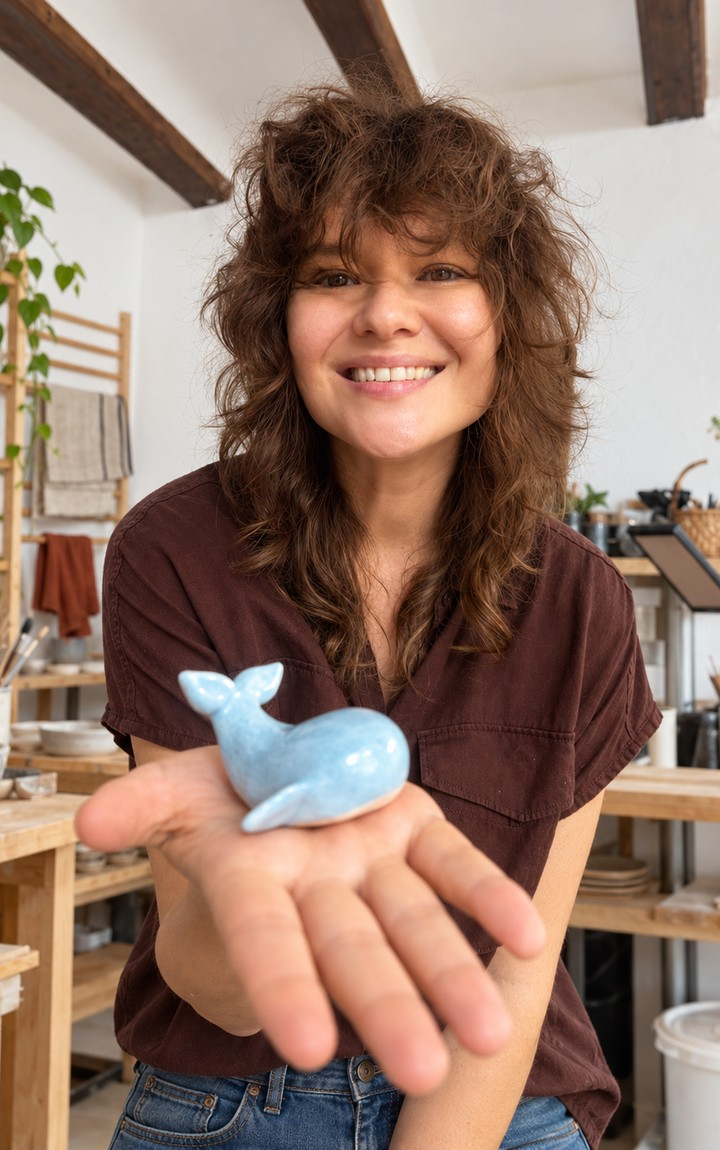
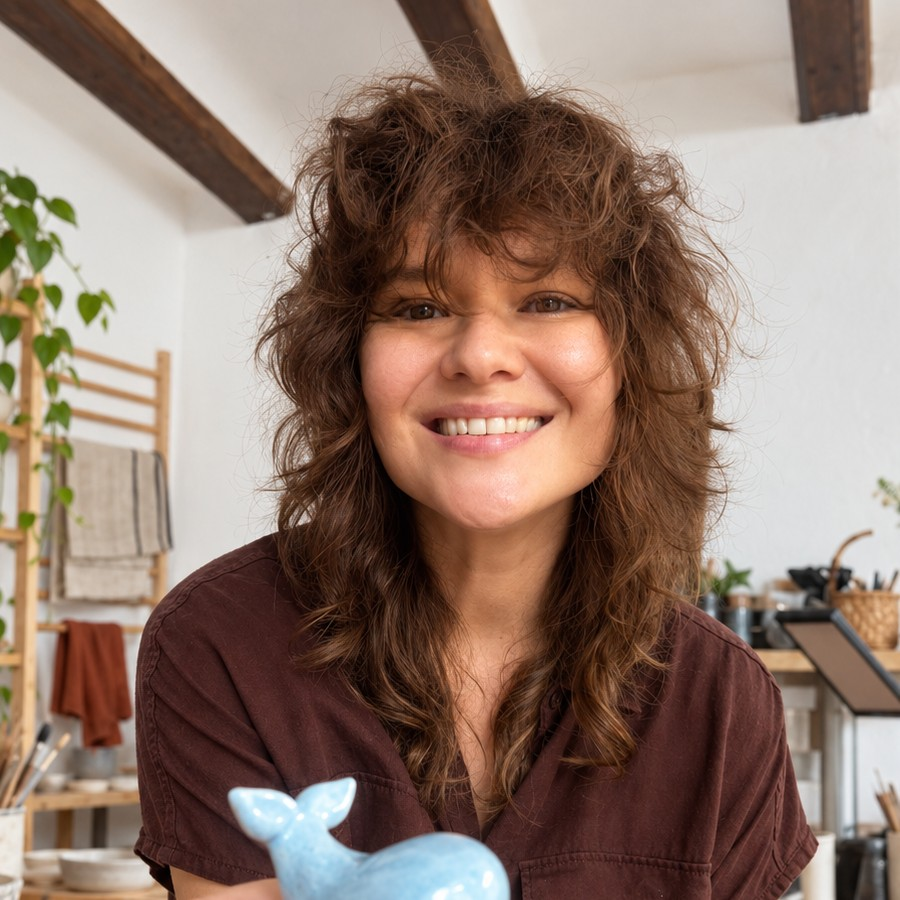
Update Vita photo to studio portrait (900×900, matches Korytsia) and add kids to bio
- vita-portrait.jpg: re-cropped from source to 900×900 to match hero-1.jpg (Korytsia)
  both images now identical format for consistent card rendering via object-fit:cover
- EN/RU/UK/ES bios: "adults" → "adults and kids" (Vita teaches both)

diff --git a/index.html b/index.html
@@ -264,7 +264,7 @@
       </div>
     </div></div></section>
 
-    <section id="people"><div class="wrap"><div class="makers__count"><span>50+</span> students through the studio since May 2026</div><div class="section-head"><div class="kicker">Who you’ll meet</div><h2 class="section-title">Artists who teach by making beside you.</h2></div><div class="makers"><article class="maker"><img src="assets/images/hero-1.jpg" alt="Korytsia teaching in her orange kimono at Saged.club"><div class="maker__text"><span class="maker__tag">Ceramic artist · Ukrainian / Russian</span><h3>Korytsia</h3><p>Slow, tactile hand-building with attention to the material. Korytsia leads children’s classes, family sessions and weekend workshops.</p></div></article><article class="maker"><img src="assets/images/vita-portrait.jpg" alt="Vita holding one of her colourful ceramic pieces" ><div class="maker__text"><span class="maker__tag">Ceramic instructor · English / Spanish</span><h3>Vita</h3><p>Friendly guided sessions for adults—clear enough for a first experience, open enough to make the piece your own.</p></div></article></div></div></section>
+    <section id="people"><div class="wrap"><div class="makers__count"><span>50+</span> students through the studio since May 2026</div><div class="section-head"><div class="kicker">Who you’ll meet</div><h2 class="section-title">Artists who teach by making beside you.</h2></div><div class="makers"><article class="maker"><img src="assets/images/hero-1.jpg" alt="Korytsia teaching in her orange kimono at Saged.club"><div class="maker__text"><span class="maker__tag">Ceramic artist · Ukrainian / Russian</span><h3>Korytsia</h3><p>Slow, tactile hand-building with attention to the material. Korytsia leads children’s classes, family sessions and weekend workshops.</p></div></article><article class="maker"><img src="assets/images/vita-portrait.jpg" alt="Vita holding one of her colourful ceramic pieces" ><div class="maker__text"><span class="maker__tag">Ceramic instructor · English / Spanish</span><h3>Vita</h3><p>Friendly guided sessions for adults and kids—clear enough for a first experience, open enough to make the piece your own.</p></div></article></div></div></section>
 
     <section class="section--sand"><div class="wrap"><div class="section-head"><div class="kicker">What you can make</div><h2 class="section-title">Useful, imperfect and completely yours.</h2></div><div class="made-grid"><img src="assets/images/product-1.jpg" alt="Handmade ceramic piece"><img src="assets/images/sept-2026/IMG_5036.jpg" alt="Handmade ceramic pieces and glaze test tiles"><img src="assets/images/sept-2026/IMG_3847.jpg" alt="Glazing tools and colour swatches at the studio"><img src="assets/images/gallery-beads.jpg" alt="Ceramic beads and small objects"></div></div></section>
 
@@ -274,11 +274,11 @@
   <a class="mobile-book" href="https://wa.me/34742003495?text=Hi!+I'd+like+to+book+a+class+at+Saged.club" target="_blank" rel="noopener">Book via WhatsApp ↗</a>
   <script>
     const translations={
-      ru:{title:'Saged.club — керамика и сообщество в Валенсии',nav:['Занятия','Расписание','Мастера','Адрес','Записаться ↗'],heroEyebrow:'Керамика · культура · люди · Валенсия',heroTitle:'Делать руками.<br><em>Быть вместе.</em>',heroLead:'Тёплая мастерская в старом городе Валенсии — для глины, любопытства и времени за общим столом.',book:'Написать в WhatsApp ↗',see:'Что у нас есть ↓',stamp:'Маленькие группы<br>Живые люди<br>Без спешки',ticker:['Глина в руках','Старая Валенсия','Занятия на русском','Можно с детьми'],offerKicker:'Выберите свой формат',offerTitle:'Приходите. Оставайтесь из любопытства. Сделайте своё.',offerNumbers:['01 · ВЗРОСЛЫМ','02 · 7–14 ЛЕТ','03 · ДЛЯ ВАШИХ ЛЮДЕЙ','04 · ДЛЯ МАСТЕРОВ','05 · ТУРИСТАМ'],offerNames:['Керамика<br>для взрослых','Дети делают<br>настоящие вещи','Приватные<br>события','Своё место<br>в мастерской','Расписной изразец<br>с собой'],offerCopy:['Лепите, глазуруйте и обжигайте свою работу. Можно без опыта, материалы включены.','Небольшие занятия, где дети осваивают керамический процесс и серьёзно относятся к своей работе.','Дни рождения, встречи друзей и командные занятия — под формат вашей компании.','Керамический коворкинг: глина, глазури, печь и пять спокойных рабочих мест.','Распишите традиционный изразец и узнайте историю Валенсии — керамической столицы Испании. Раз в неделю, через Booking.com или Airbnb. Доставим готовое изделие или заберите из печи сами.'],offerPrice:['от 30€','25€','Спросить нас','Спросить о месте','65€'],scheduleTitle:'Ритм<br>недели',scheduleNote:'Напишите нам до визита. В чате мы подтвердим язык, мастера и свободное место.',days:['Вторник','','Среда','Четверг','','','','Пятница','','Суббота','','','','Воскресенье','','','Понедельник'],classes:['Beginners Ceramics','Evening Ceramics','Beginners Ceramics','Сказкотерапия','Кофе с Корицей','Детская керамика','СДВГ лепка группа','Evening Ceramics','Ceramics & Wine','Сказкотерапия','Дети + родители','Детская керамика','СДВГ взрослые','Сказкотерапия','МК для пар','Воркшоп по глине','Студия: день коворкинга'],peopleKicker:'Кого вы встретите',peopleTitle:'Художницы, которые работают рядом с вами.',tags:['Художница-керамистка · украинский / русский','Преподаватель керамики · английский / испанский'],bios:['Медленная, тактильная ручная лепка с вниманием к материалу. Корица ведёт детские, семейные и выходные занятия.','Дружелюбные занятия для взрослых: достаточно понятно для первого раза и достаточно свободно, чтобы сделать вещь своей.'],madeKicker:'Что можно сделать',madeTitle:'Полезное, несовершенное и полностью ваше.',visitKicker:'Заходите познакомиться',visitTitle:'Найдите нас<br>в Валенсии.',map:'Открыть карту ↗',menu:'Меню',footer:'Керамическая и культурная мастерская · Валенсия'},
-      uk:{title:'Saged.club — кераміка та спільнота у Валенсії',nav:['Заняття','Розклад','Майстрині','Адреса','Записатися ↗'],heroEyebrow:'Кераміка · культура · люди · Валенсія',heroTitle:'Творити руками.<br><em>Бути разом.</em>',heroLead:'Тепла майстерня у старому місті Валенсії — для глини, цікавості та часу за спільним столом.',book:'Написати у WhatsApp ↗',see:'Що ми робимо ↓',stamp:'Малі групи<br>Живі люди<br>Без поспіху',ticker:['Глина в руках','Стара Валенсія','Заняття українською','Можна з дітьми'],offerKicker:'Оберіть свій формат',offerTitle:'Прийдіть. Залишайтесь із цікавості. Зробіть своє.',offerNumbers:['01 · ДОРОСЛИМ','02 · 7–14 РОКІВ','03 · ДЛЯ ВАШИХ ЛЮДЕЙ','04 · ДЛЯ МАЙСТРІВ','05 · ТУРИСТАМ'],offerNames:['Кераміка<br>для дорослих','Діти роблять<br>справжні речі','Приватні<br>події','Своє місце<br>в майстерні','Розписна плитка<br>з собою'],offerCopy:['Ліпіть, глазуруйте та випалюйте власну роботу. Можна без досвіду, матеріали включені.','Малі заняття, де діти опановують керамічний процес і серйозно ставляться до своєї роботи.','Дні народження, зустрічі друзів і командні заняття — під формат вашої компанії.','Керамічний коворкінг: глина, глазурі, піч і п’ять спокійних робочих місць.','Розпишіть традиційну плитку та дізнайтесь про Валенсію — керамічну столицю Іспанії. Раз на тиждень, через Booking.com або Airbnb. Доставимо або заберіть з печі за два дні.'],offerPrice:['від 30€','25€','Запитайте нас','Запитати про місце','65€'],scheduleTitle:'Ритм<br>тижня',scheduleNote:'Напишіть нам перед візитом. У чаті ми підтвердимо мову, майстриню та вільне місце.',days:['Вівторок','','Середа','Четвер','','','','Пʼятниця','','Субота','','','','Неділя','','','Понеділок'],classes:['Beginners Ceramics','Evening Ceramics','Beginners Ceramics','Казкотерапія','Кава з Корицею','Дитяча кераміка','СДВГ ліпка група','Evening Ceramics','Ceramics & Wine','Казкотерапія','Діти + батьки','Дитяча кераміка','СДВГ дорослі','Казкотерапія','МК для пар','Воркшоп з глини','Студія: день коворкінгу'],peopleKicker:'Кого ви зустрінете',peopleTitle:'Художниці, які працюють поруч із вами.',tags:['Художниця-керамістка · українська / російська','Викладачка кераміки · англійська / іспанська'],bios:['Повільна, тактильна ручна ліпка з увагою до матеріалу. Кориця веде дитячі, сімейні та вихідні заняття.','Дружні заняття для дорослих: зрозуміло для першого разу і достатньо вільно, щоб зробити річ своєю.'],madeKicker:'Що можна зробити',madeTitle:'Корисне, недосконале і повністю ваше.',visitKicker:'Заходьте познайомитися',visitTitle:'Знайдіть нас<br>у Валенсії.',map:'Відкрити карту ↗',menu:'Меню',footer:'Керамічна та культурна майстерня · Валенсія'},
-      es:{title:'Saged.club — cerámica y comunidad en Valencia',nav:['Clases','Horario','Personas','Visítanos','Reservar ↗'],heroEyebrow:'Cerámica · cultura · comunidad · Valencia',heroTitle:'Crear con las manos.<br><em>Conectar de verdad.</em>',heroLead:'Un estudio cálido en el casco antiguo de Valencia para trabajar con barro, sentir curiosidad y compartir tiempo alrededor de la mesa.',book:'Escribir por WhatsApp ↗',see:'Descubre el estudio ↓',stamp:'Grupos pequeños<br>Personas reales<br>Sin prisas',ticker:['Manos en el barro','Valencia antigua','Clases en español','Familias bienvenidas'],offerKicker:'Elige tu manera de entrar',offerTitle:'Ven. Quédate por curiosidad. Crea algo tuyo.',offerNumbers:['01 · ADULTOS','02 · 7–14 AÑOS','03 · TU GENTE','04 · CERAMISTAS','05 · TURISTAS'],offerNames:['Clases de<br>cerámica','Niños que hacen<br>cosas de verdad','Eventos<br>privados','Tu mesa<br>en el estudio','Pinta un azulejo<br>y llévalo contigo'],offerCopy:['Modela, esmalta y cuece tu propia pieza. No necesitas experiencia y los materiales están incluidos.','Grupos pequeños donde los niños aprenden el proceso cerámico y se toman en serio su trabajo.','Cumpleaños, encuentros con amigos y sesiones de equipo adaptadas a vuestro grupo.','Coworking cerámico con barro, esmaltes, horno y cinco mesas tranquilas para practicar.','Pinta un azulejo valenciano y descubre la historia de Valencia como capital de la cerámica en España. Una sesión por semana, vía Booking.com o Airbnb. Te lo enviamos o recógelo en dos días.'],offerPrice:['desde 30€','25€','Consúltanos','Pregunta por una plaza','65€'],scheduleTitle:'Ritmo<br>semanal',scheduleNote:'Escríbenos antes de venir. Confirmamos por chat el idioma, la profesora y la plaza disponible.',days:['Martes','','Miércoles','Jueves','','','','Viernes','','Sábado','','','','Domingo','','','Lunes'],classes:['Beginners Ceramics','Evening Ceramics','Beginners Ceramics','Terapia de cuentos','Café con Korytsia','Cerámica infantil','Grupo TDAH con arcilla','Evening Ceramics','Ceramics & Wine','Terapia de cuentos','Niños + padres','Cerámica infantil','Grupo TDAH adultos','Terapia de cuentos','Taller para parejas','Taller de arcilla','Estudio: día de coworking'],peopleKicker:'A quién conocerás',peopleTitle:'Artistas que enseñan creando a tu lado.',tags:['Artista ceramista · ucraniano / ruso','Profesora de cerámica · inglés / español'],bios:['Modelado manual lento y táctil, atento al material. Korytsia dirige clases infantiles, familiares y talleres de fin de semana.','Sesiones amables para adultos: claras para una primera experiencia y abiertas para crear una pieza propia.'],madeKicker:'Qué puedes crear',madeTitle:'Útil, imperfecto y completamente tuyo.',visitKicker:'Ven a conocernos',visitTitle:'Encuéntranos<br>en Valencia.',map:'Abrir en Maps ↗',menu:'Menú',footer:'Estudio de cerámica y cultura · Valencia'}
+      ru:{title:'Saged.club — керамика и сообщество в Валенсии',nav:['Занятия','Расписание','Мастера','Адрес','Записаться ↗'],heroEyebrow:'Керамика · культура · люди · Валенсия',heroTitle:'Делать руками.<br><em>Быть вместе.</em>',heroLead:'Тёплая мастерская в старом городе Валенсии — для глины, любопытства и времени за общим столом.',book:'Написать в WhatsApp ↗',see:'Что у нас есть ↓',stamp:'Маленькие группы<br>Живые люди<br>Без спешки',ticker:['Глина в руках','Старая Валенсия','Занятия на русском','Можно с детьми'],offerKicker:'Выберите свой формат',offerTitle:'Приходите. Оставайтесь из любопытства. Сделайте своё.',offerNumbers:['01 · ВЗРОСЛЫМ','02 · 7–14 ЛЕТ','03 · ДЛЯ ВАШИХ ЛЮДЕЙ','04 · ДЛЯ МАСТЕРОВ','05 · ТУРИСТАМ'],offerNames:['Керамика<br>для взрослых','Дети делают<br>настоящие вещи','Приватные<br>события','Своё место<br>в мастерской','Расписной изразец<br>с собой'],offerCopy:['Лепите, глазуруйте и обжигайте свою работу. Можно без опыта, материалы включены.','Небольшие занятия, где дети осваивают керамический процесс и серьёзно относятся к своей работе.','Дни рождения, встречи друзей и командные занятия — под формат вашей компании.','Керамический коворкинг: глина, глазури, печь и пять спокойных рабочих мест.','Распишите традиционный изразец и узнайте историю Валенсии — керамической столицы Испании. Раз в неделю, через Booking.com или Airbnb. Доставим готовое изделие или заберите из печи сами.'],offerPrice:['от 30€','25€','Спросить нас','Спросить о месте','65€'],scheduleTitle:'Ритм<br>недели',scheduleNote:'Напишите нам до визита. В чате мы подтвердим язык, мастера и свободное место.',days:['Вторник','','Среда','Четверг','','','','Пятница','','Суббота','','','','Воскресенье','','','Понедельник'],classes:['Beginners Ceramics','Evening Ceramics','Beginners Ceramics','Сказкотерапия','Кофе с Корицей','Детская керамика','СДВГ лепка группа','Evening Ceramics','Ceramics & Wine','Сказкотерапия','Дети + родители','Детская керамика','СДВГ взрослые','Сказкотерапия','МК для пар','Воркшоп по глине','Студия: день коворкинга'],peopleKicker:'Кого вы встретите',peopleTitle:'Художницы, которые работают рядом с вами.',tags:['Художница-керамистка · украинский / русский','Преподаватель керамики · английский / испанский'],bios:['Медленная, тактильная ручная лепка с вниманием к материалу. Корица ведёт детские, семейные и выходные занятия.','Дружелюбные занятия для взрослых и детей: достаточно понятно для первого раза и достаточно свободно, чтобы сделать вещь своей.'],madeKicker:'Что можно сделать',madeTitle:'Полезное, несовершенное и полностью ваше.',visitKicker:'Заходите познакомиться',visitTitle:'Найдите нас<br>в Валенсии.',map:'Открыть карту ↗',menu:'Меню',footer:'Керамическая и культурная мастерская · Валенсия'},
+      uk:{title:'Saged.club — кераміка та спільнота у Валенсії',nav:['Заняття','Розклад','Майстрині','Адреса','Записатися ↗'],heroEyebrow:'Кераміка · культура · люди · Валенсія',heroTitle:'Творити руками.<br><em>Бути разом.</em>',heroLead:'Тепла майстерня у старому місті Валенсії — для глини, цікавості та часу за спільним столом.',book:'Написати у WhatsApp ↗',see:'Що ми робимо ↓',stamp:'Малі групи<br>Живі люди<br>Без поспіху',ticker:['Глина в руках','Стара Валенсія','Заняття українською','Можна з дітьми'],offerKicker:'Оберіть свій формат',offerTitle:'Прийдіть. Залишайтесь із цікавості. Зробіть своє.',offerNumbers:['01 · ДОРОСЛИМ','02 · 7–14 РОКІВ','03 · ДЛЯ ВАШИХ ЛЮДЕЙ','04 · ДЛЯ МАЙСТРІВ','05 · ТУРИСТАМ'],offerNames:['Кераміка<br>для дорослих','Діти роблять<br>справжні речі','Приватні<br>події','Своє місце<br>в майстерні','Розписна плитка<br>з собою'],offerCopy:['Ліпіть, глазуруйте та випалюйте власну роботу. Можна без досвіду, матеріали включені.','Малі заняття, де діти опановують керамічний процес і серйозно ставляться до своєї роботи.','Дні народження, зустрічі друзів і командні заняття — під формат вашої компанії.','Керамічний коворкінг: глина, глазурі, піч і п’ять спокійних робочих місць.','Розпишіть традиційну плитку та дізнайтесь про Валенсію — керамічну столицю Іспанії. Раз на тиждень, через Booking.com або Airbnb. Доставимо або заберіть з печі за два дні.'],offerPrice:['від 30€','25€','Запитайте нас','Запитати про місце','65€'],scheduleTitle:'Ритм<br>тижня',scheduleNote:'Напишіть нам перед візитом. У чаті ми підтвердимо мову, майстриню та вільне місце.',days:['Вівторок','','Середа','Четвер','','','','Пʼятниця','','Субота','','','','Неділя','','','Понеділок'],classes:['Beginners Ceramics','Evening Ceramics','Beginners Ceramics','Казкотерапія','Кава з Корицею','Дитяча кераміка','СДВГ ліпка група','Evening Ceramics','Ceramics & Wine','Казкотерапія','Діти + батьки','Дитяча кераміка','СДВГ дорослі','Казкотерапія','МК для пар','Воркшоп з глини','Студія: день коворкінгу'],peopleKicker:'Кого ви зустрінете',peopleTitle:'Художниці, які працюють поруч із вами.',tags:['Художниця-керамістка · українська / російська','Викладачка кераміки · англійська / іспанська'],bios:['Повільна, тактильна ручна ліпка з увагою до матеріалу. Кориця веде дитячі, сімейні та вихідні заняття.','Дружні заняття для дорослих і дітей: зрозуміло для першого разу і достатньо вільно, щоб зробити річ своєю.'],madeKicker:'Що можна зробити',madeTitle:'Корисне, недосконале і повністю ваше.',visitKicker:'Заходьте познайомитися',visitTitle:'Знайдіть нас<br>у Валенсії.',map:'Відкрити карту ↗',menu:'Меню',footer:'Керамічна та культурна майстерня · Валенсія'},
+      es:{title:'Saged.club — cerámica y comunidad en Valencia',nav:['Clases','Horario','Personas','Visítanos','Reservar ↗'],heroEyebrow:'Cerámica · cultura · comunidad · Valencia',heroTitle:'Crear con las manos.<br><em>Conectar de verdad.</em>',heroLead:'Un estudio cálido en el casco antiguo de Valencia para trabajar con barro, sentir curiosidad y compartir tiempo alrededor de la mesa.',book:'Escribir por WhatsApp ↗',see:'Descubre el estudio ↓',stamp:'Grupos pequeños<br>Personas reales<br>Sin prisas',ticker:['Manos en el barro','Valencia antigua','Clases en español','Familias bienvenidas'],offerKicker:'Elige tu manera de entrar',offerTitle:'Ven. Quédate por curiosidad. Crea algo tuyo.',offerNumbers:['01 · ADULTOS','02 · 7–14 AÑOS','03 · TU GENTE','04 · CERAMISTAS','05 · TURISTAS'],offerNames:['Clases de<br>cerámica','Niños que hacen<br>cosas de verdad','Eventos<br>privados','Tu mesa<br>en el estudio','Pinta un azulejo<br>y llévalo contigo'],offerCopy:['Modela, esmalta y cuece tu propia pieza. No necesitas experiencia y los materiales están incluidos.','Grupos pequeños donde los niños aprenden el proceso cerámico y se toman en serio su trabajo.','Cumpleaños, encuentros con amigos y sesiones de equipo adaptadas a vuestro grupo.','Coworking cerámico con barro, esmaltes, horno y cinco mesas tranquilas para practicar.','Pinta un azulejo valenciano y descubre la historia de Valencia como capital de la cerámica en España. Una sesión por semana, vía Booking.com o Airbnb. Te lo enviamos o recógelo en dos días.'],offerPrice:['desde 30€','25€','Consúltanos','Pregunta por una plaza','65€'],scheduleTitle:'Ritmo<br>semanal',scheduleNote:'Escríbenos antes de venir. Confirmamos por chat el idioma, la profesora y la plaza disponible.',days:['Martes','','Miércoles','Jueves','','','','Viernes','','Sábado','','','','Domingo','','','Lunes'],classes:['Beginners Ceramics','Evening Ceramics','Beginners Ceramics','Terapia de cuentos','Café con Korytsia','Cerámica infantil','Grupo TDAH con arcilla','Evening Ceramics','Ceramics & Wine','Terapia de cuentos','Niños + padres','Cerámica infantil','Grupo TDAH adultos','Terapia de cuentos','Taller para parejas','Taller de arcilla','Estudio: día de coworking'],peopleKicker:'A quién conocerás',peopleTitle:'Artistas que enseñan creando a tu lado.',tags:['Artista ceramista · ucraniano / ruso','Profesora de cerámica · inglés / español'],bios:['Modelado manual lento y táctil, atento al material. Korytsia dirige clases infantiles, familiares y talleres de fin de semana.','Sesiones amables para adultos y niños: claras para una primera experiencia y abiertas para crear una pieza propia.'],madeKicker:'Qué puedes crear',madeTitle:'Útil, imperfecto y completamente tuyo.',visitKicker:'Ven a conocernos',visitTitle:'Encuéntranos<br>en Valencia.',map:'Abrir en Maps ↗',menu:'Menú',footer:'Estudio de cerámica y cultura · Valencia'}
     };
-    const english={title:document.title,nav:['Classes','Schedule','People','Visit','Book a class ↗'],heroEyebrow:'Ceramics · culture · community · Valencia',heroTitle:'Make things.<br><em>Meet people.</em>',heroLead:'A warm studio in Valencia’s old city for clay, curiosity and time shared around the table.',book:'Book in Instagram ↗',see:'See what we do ↓',stamp:'Small groups<br>Real people<br>No rush',ticker:['Hands in clay','Old city Valencia','Classes in English','Children welcome'],offerKicker:'Choose your way in',offerTitle:'Come. Stay curious. Make something yours.',offerNumbers:['01 · ADULTS','02 · AGES 7–14','03 · YOUR PEOPLE','04 · FOR MAKERS','05 · TOURISTS'],offerNames:['Ceramics<br>classes','Kids make<br>real things','Private<br>events','Your desk<br>in the studio','Paint a tile<br>take it home'],offerCopy:['Hand-build, glaze and fire your own piece. Beginners are welcome and materials are included.','Small guided classes where children learn the ceramic process and take their work seriously.','Birthdays, friend gatherings and team sessions shaped around your group.','Ceramic coworking with clay, glazes, kiln access and five quiet places to practise.','Paint a traditional Valencian tile and hear the story of Valencia as Spain\'s pottery capital. One session per week, bookable via Booking.com and Airbnb. We ship the glazed piece to your door — or collect from the kiln in two days.'],offerPrice:['from €30','€25','Ask us','Ask about a place','€65'],scheduleTitle:'Weekly<br>rhythm',scheduleNote:'Message us before coming. We confirm the language, instructor and available place in the chat.',days:['Tuesday','','Wednesday','Thursday','','','','Friday','','Saturday','','','','Sunday','','','Monday'],classes:['Beginners Ceramics','Evening Ceramics','Beginners Ceramics','Story Therapy','Coffee with Korytsia','Kids Ceramics','ADHD Clay Group','Evening Ceramics','Ceramics & Wine','Story Therapy','Kids + Parents','Kids Ceramics','ADHD Adults Group','Story Therapy','Couples Masterclass','Clay Workshop','Ceramic Studio Coworking'],peopleKicker:'Who you’ll meet',peopleTitle:'Artists who teach by making beside you.',tags:['Ceramic artist · Ukrainian / Russian','Ceramic instructor · English / Spanish'],bios:['Slow, tactile hand-building with attention to the material. Korytsia leads children’s classes, family sessions and weekend workshops.','Friendly guided sessions for adults—clear enough for a first experience, open enough to make the piece your own.'],madeKicker:'What you can make',madeTitle:'Useful, imperfect and completely yours.',visitKicker:'Come say hello',visitTitle:'Find us<br>in Valencia.',map:'Open in Maps ↗',menu:'Menu',footer:'Ceramics and cultural studio · Valencia'};
+    const english={title:document.title,nav:['Classes','Schedule','People','Visit','Book a class ↗'],heroEyebrow:'Ceramics · culture · community · Valencia',heroTitle:'Make things.<br><em>Meet people.</em>',heroLead:'A warm studio in Valencia’s old city for clay, curiosity and time shared around the table.',book:'Book in Instagram ↗',see:'See what we do ↓',stamp:'Small groups<br>Real people<br>No rush',ticker:['Hands in clay','Old city Valencia','Classes in English','Children welcome'],offerKicker:'Choose your way in',offerTitle:'Come. Stay curious. Make something yours.',offerNumbers:['01 · ADULTS','02 · AGES 7–14','03 · YOUR PEOPLE','04 · FOR MAKERS','05 · TOURISTS'],offerNames:['Ceramics<br>classes','Kids make<br>real things','Private<br>events','Your desk<br>in the studio','Paint a tile<br>take it home'],offerCopy:['Hand-build, glaze and fire your own piece. Beginners are welcome and materials are included.','Small guided classes where children learn the ceramic process and take their work seriously.','Birthdays, friend gatherings and team sessions shaped around your group.','Ceramic coworking with clay, glazes, kiln access and five quiet places to practise.','Paint a traditional Valencian tile and hear the story of Valencia as Spain\'s pottery capital. One session per week, bookable via Booking.com and Airbnb. We ship the glazed piece to your door — or collect from the kiln in two days.'],offerPrice:['from €30','€25','Ask us','Ask about a place','€65'],scheduleTitle:'Weekly<br>rhythm',scheduleNote:'Message us before coming. We confirm the language, instructor and available place in the chat.',days:['Tuesday','','Wednesday','Thursday','','','','Friday','','Saturday','','','','Sunday','','','Monday'],classes:['Beginners Ceramics','Evening Ceramics','Beginners Ceramics','Story Therapy','Coffee with Korytsia','Kids Ceramics','ADHD Clay Group','Evening Ceramics','Ceramics & Wine','Story Therapy','Kids + Parents','Kids Ceramics','ADHD Adults Group','Story Therapy','Couples Masterclass','Clay Workshop','Ceramic Studio Coworking'],peopleKicker:'Who you’ll meet',peopleTitle:'Artists who teach by making beside you.',tags:['Ceramic artist · Ukrainian / Russian','Ceramic instructor · English / Spanish'],bios:['Slow, tactile hand-building with attention to the material. Korytsia leads children’s classes, family sessions and weekend workshops.','Friendly guided sessions for adults and kids—clear enough for a first experience, open enough to make the piece your own.'],madeKicker:'What you can make',madeTitle:'Useful, imperfect and completely yours.',visitKicker:'Come say hello',visitTitle:'Find us<br>in Valencia.',map:'Open in Maps ↗',menu:'Menu',footer:'Ceramics and cultural studio · Valencia'};
     function applyLanguage(lang){_calLang=lang;const t=lang==='en'?english:translations[lang]||english;document.documentElement.lang=lang;document.documentElement.classList.toggle('lang-cyr',lang==='ru'||lang==='uk');document.title=t.title;const nav=[...document.querySelectorAll('.nav__links>a')];t.nav.forEach((v,i)=>nav[i].textContent=v);document.querySelector('.hero .eyebrow').textContent=t.heroEyebrow;document.querySelector('.hero h1').innerHTML=t.heroTitle;document.querySelector('.hero__lead').textContent=t.heroLead;document.querySelector('.hero .pill').textContent=t.book;document.querySelector('.hero .text-link').textContent=t.see;document.querySelector('.hero__stamp').innerHTML=t.stamp;document.querySelectorAll('.ticker__line span').forEach((el,i)=>el.textContent=t.ticker[i%4]);const heads=document.querySelectorAll('.section-head');heads[0].querySelector('.kicker').textContent=t.offerKicker;heads[0].querySelector('h2').textContent=t.offerTitle;document.querySelectorAll('.offer').forEach((el,i)=>{el.querySelector('.offer__number').textContent=t.offerNumbers[i];el.querySelector('h3').innerHTML=t.offerNames[i];el.querySelector('p').textContent=t.offerCopy[i];const priceEl=el.querySelector('.price');if(priceEl)priceEl.textContent=t.offerPrice[i]});document.querySelector('.schedule h2').innerHTML=t.scheduleTitle;document.querySelector('.schedule__note').textContent=t.scheduleNote;document.querySelectorAll('.schedule__row').forEach((el,i)=>{el.querySelector('.schedule__day').textContent=t.days[i];el.querySelector('.schedule__class').textContent=t.classes[i]});heads[1].querySelector('.kicker').textContent=t.peopleKicker;heads[1].querySelector('h2').textContent=t.peopleTitle;document.querySelectorAll('.maker').forEach((el,i)=>{el.querySelector('.maker__tag').textContent=t.tags[i];el.querySelector('p').textContent=t.bios[i]});heads[2].querySelector('.kicker').textContent=t.madeKicker;heads[2].querySelector('h2').textContent=t.madeTitle;document.querySelector('.visit .kicker').textContent=t.visitKicker;document.querySelector('.visit h2').innerHTML=t.visitTitle;document.querySelector('.visit .pill').textContent=t.map;document.querySelector('.menu').textContent=t.menu;document.querySelector('.footer__row span:nth-child(2)').textContent=t.footer;document.querySelector('.mobile-book').textContent=t.book;document.getElementById('language').value=lang;history.replaceState(null,'',lang==='en'?location.pathname:location.pathname+'?lang='+lang);buildCalendar();}
     let _calLang='en';function buildCalendar(){const MONDAY={en:'Monday',ru:'Понедельник',uk:'Понеділок',es:'Lunes'}[_calLang]||'Monday';const rows=[...document.querySelectorAll('#view-list .schedule__row')];const groups=[];let cur=null;rows.forEach(row=>{const dayText=row.querySelector('.schedule__day').textContent.trim();if(dayText){cur={label:dayText,hasVita:false,cells:[]};groups.push(cur);}if(!cur)return;const timeEl=row.querySelector('.schedule__time-label');const nameEl=row.querySelector('.schedule__class');const instrEl=row.querySelector('.schedule__instructor');const btnEl=row.querySelector('a');if(!timeEl||!nameEl)return;const instr=instrEl?instrEl.textContent.trim():'';const isVita=instr.includes('Vita');if(isVita)cur.hasVita=true;const isMsg=btnEl&&btnEl.classList.contains('schedule__book--msg');cur.cells.push({time:timeEl.textContent.trim(),name:nameEl.textContent.trim(),sub:instr.replace(/^with /,'').replace(/\s*\/\s*/g,' · '),btnText:btnEl?(isMsg?'Message ↗':'Book ↗'):null,btnClass:isVita?'cal__btn v':(isMsg?'cal__btn msg':'cal__btn'),href:btnEl?btnEl.getAttribute('href'):null});});const cal=document.querySelector('#view-calendar .cal');if(!cal)return;let h='';groups.forEach(g=>{const hc=g.hasVita?'cal__head v':(g.cells.length?'cal__head k':'cal__head');h+=`<div class="${hc}">${g.label}</div>`;});groups.forEach(g=>{h+='<div class="cal__col">';if(!g.cells.length){h+='<div class="cal__empty">—</div>';}else g.cells.forEach(c=>{h+=`<div class="cal__cell"><div class="cal__time">${c.time}</div><div class="cal__name">${c.name}</div>`;if(c.sub)h+=`<div class="cal__sub">${c.sub}</div>`;if(c.href)h+=`<a class="${c.btnClass}" href="${c.href}" target="_blank" rel="noopener">${c.btnText}</a>`;h+='</div>';});h+='</div>';});cal.innerHTML=h;}const initialLang=new URLSearchParams(location.search).get('lang')||'en';applyLanguage(initialLang);document.getElementById('language').addEventListener('change',e=>applyLanguage(e.target.value));
     const menuButton=document.querySelector('.menu');
